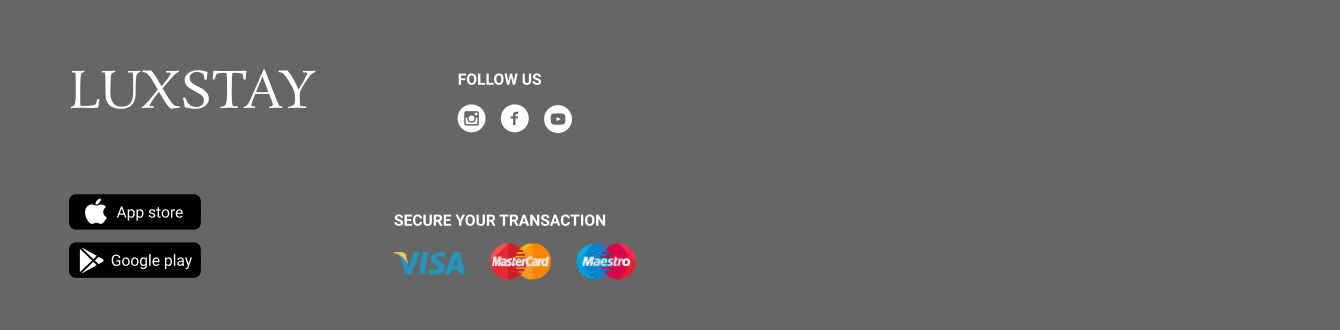
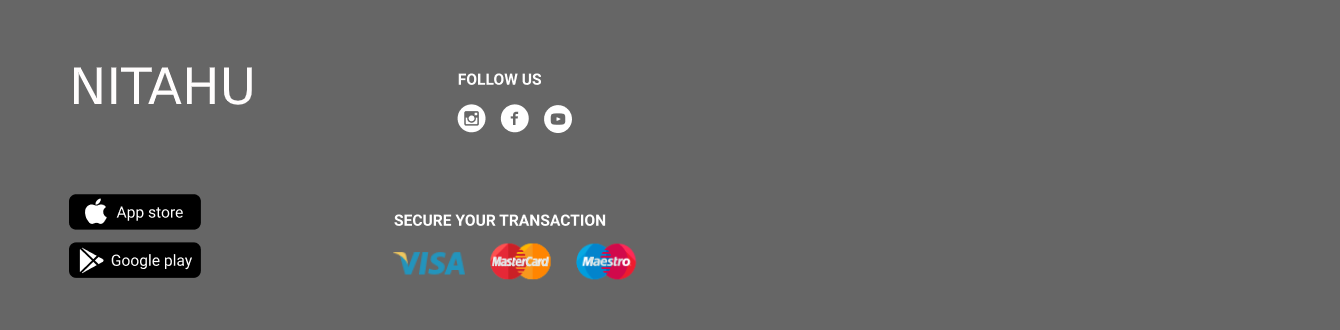
fix name

Changed region(s): [[0.0306, 0.1818, 0.2448, 0.3333]]

diff --git a/html/home.html b/html/home.html
@@ -491,8 +491,8 @@
   <div class='main container-fluid'>
 
     <div class="section">
-      <h2><b>Chào mừng đến với Luxstay</b></h2>
-      <p>Đặt chỗ ở, phòng trọ, trải nghiệm và nhiều hơn nữa với Luxstay</p>
+      <h2><b>Chào mừng đến với Nitahu</b></h2>
+      <p>Đặt chỗ ở, phòng trọ, trải nghiệm và nhiều hơn nữa với Nitahu</p>
 
       <div class="row">
         <div class="col-sm-2 block-type">

diff --git a/css/index.css b/css/index.css
@@ -1,5 +1,6 @@
 body {
     overflow-x: hidden;
+    padding-left: 20px;
 }
 
 footer {
